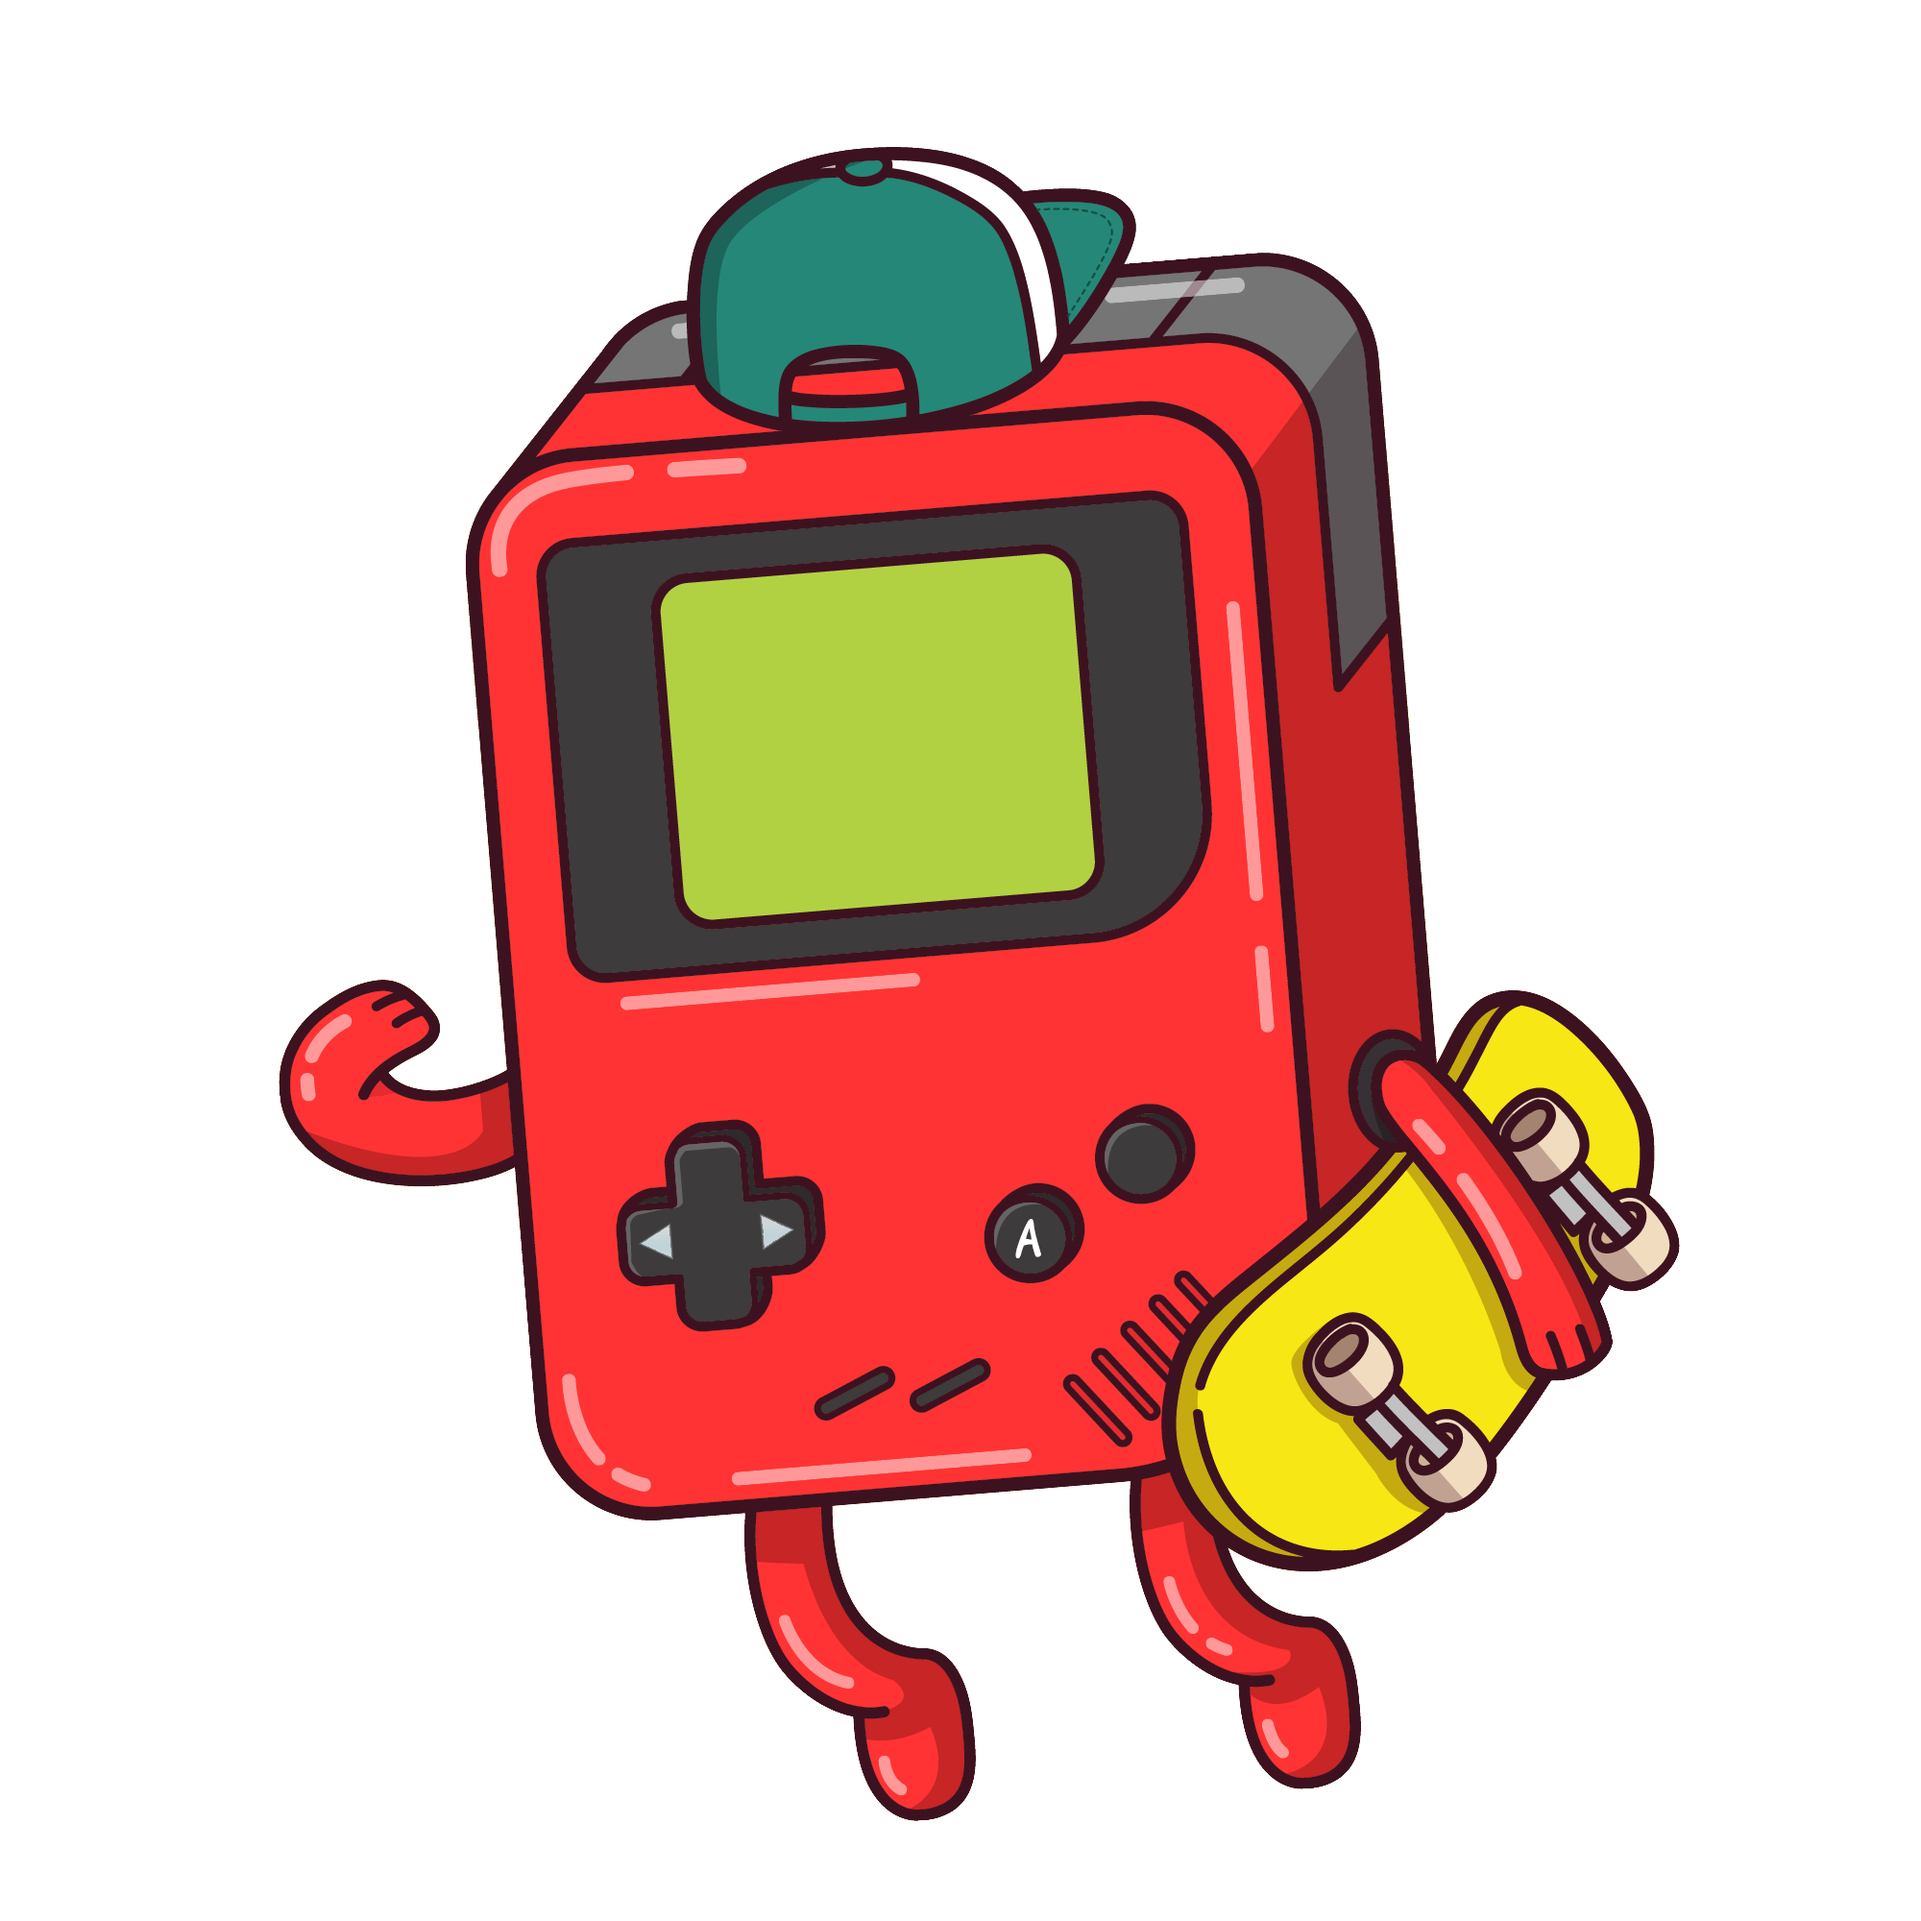
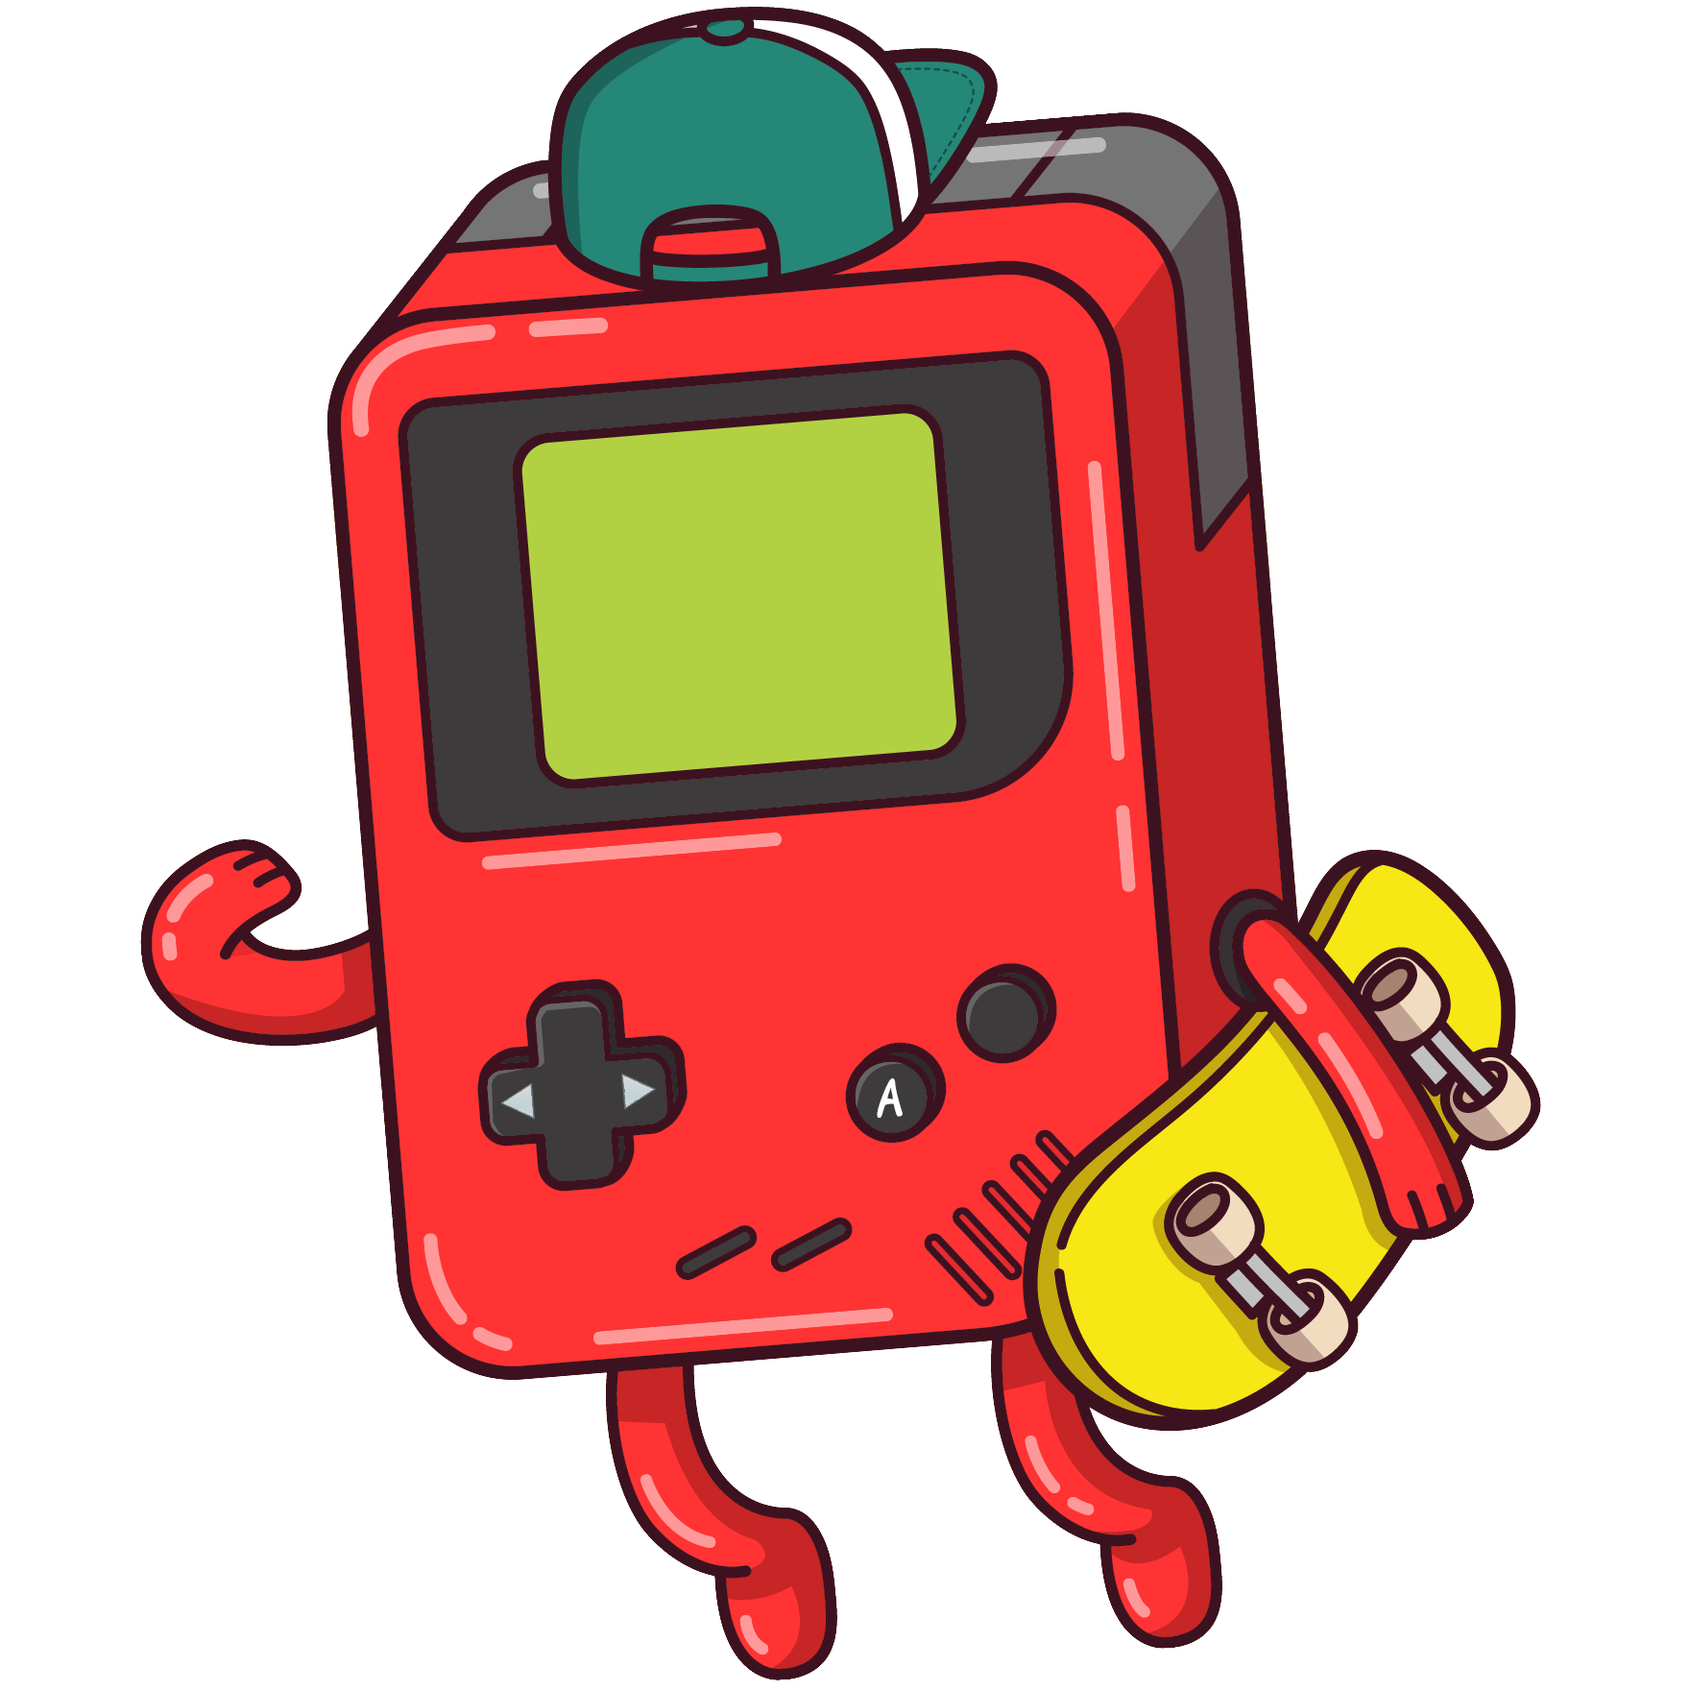
minting gameboy

Changed region(s): [[0.0625, 0.0, 0.9062, 0.9994], [0.5, 0.6246, 0.5625, 0.7183], [0.5625, 0.5622, 0.625, 0.6246]]

diff --git a/src/MainMint.js b/src/MainMint.js
@@ -136,16 +136,16 @@ margin-left: 7%;
 
 `
 const MinterContainer= styled.div`
-width:60%;
-padding-bottom:60%;
+width:50%;
+padding-bottom:50%;
 
 background-size:100% 100%;
 background-image: url(${Gameboy});
 
 
 @media (max-width: 50em){
-    width:90%;
-    padding-bottom:90%;
+    width:100%;
+    padding-bottom:100%;
 
   }
 
